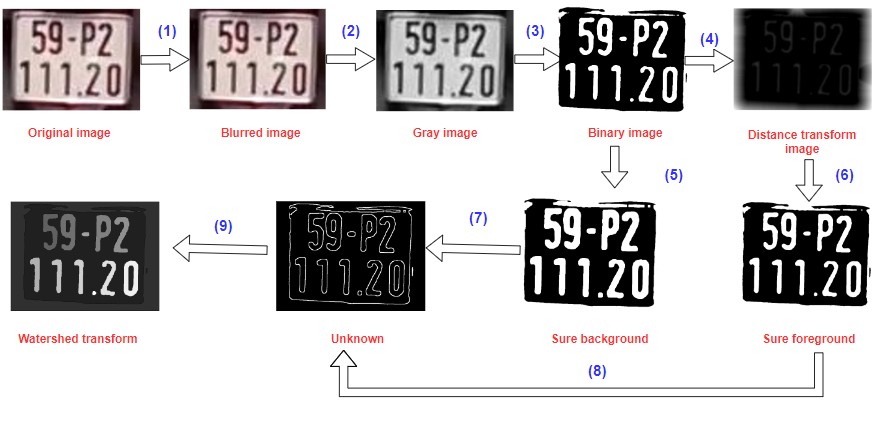
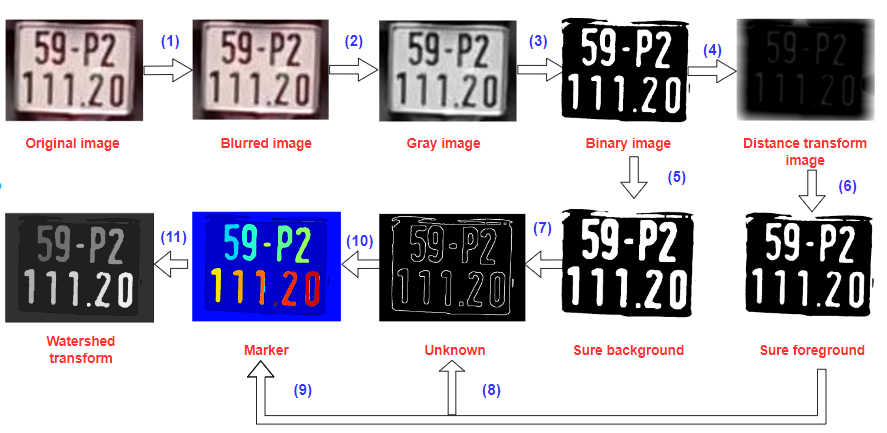
update pipeline

diff --git a/pages/WaterShed.py b/pages/WaterShed.py
@@ -66,7 +66,7 @@ load_image()
 def marker(idx_image, kernels, ratio_thresh):
    
     img_bgr = list_images[idx_image]
-    # img_blur = cv.medianBlur(src = img_bgr, ksize = 3)
+    img_blur = cv.medianBlur(src = img_bgr, ksize = 3)
     img_gray = cv.cvtColor(img_bgr, cv.COLOR_BGR2GRAY)
     
     ret, img_thresh = cv.threshold(img_gray, 0, 255, cv.THRESH_BINARY_INV + cv.THRESH_OTSU)
@@ -502,14 +502,17 @@ def calc():
     
 def Text_PineLine():
     st.markdown("##### **Trong đó:**")
-    st.markdown("- **(1)**: Chuyển từ ảnh **BGR** sang ảnh **Blurred**")
+    st.markdown("- **(1)**: Làm mờ ảnh với thuật toán **Median Blur**")
     st.markdown("- **(2)**: Chuyển từ ảnh **Blurred** sang ảnh **Gray**")
     st.markdown("- **(3)**: Sử dụng thuật toán **Inverse Binary Thresholding** và **Otsu's Binarization** để chuyển thành ảnh **Binary**")
     st.markdown("- **(4)**: Dựa vào ảnh **Binary** để xác định **Distance transform**")
     st.markdown("- **(5)**: Dựa vào ảnh **Binary** để xác định **Sure background**")
-    st.markdown("- **(6)**: Dựa vào **Distance transform** để xác định **Sure foreground**")
+    st.markdown("- **(6)**: Dựa vào **Distance transform** để xác định **Sure foreground** " 
+               + "(**Sure foreground** được xác định bằng cách giữ lại những vùng có giá trị lớn hơn ngưỡng **(Threshsold)** trong ảnh sau khi áp dụng **Distance transform**)")
     st.markdown("- **(7), (8)**: Dựa vào **Sure foreground** và **Sure background** để xác định vùng **Unknown**")
-    st.markdown("- **(9)**: Kết quả sau khi áp dụng thuật toán **Watershed segmentation**")
+    st.markdown("- **(9), (10)**: Dựa vào **Sure foreground** và **Unknown** để tạo ra **Marker**")
+    
+    st.markdown("- **(11)**: Xác định đối tượng phân đoạn dựa vào thuật toán **Watershed Transform**")
     
 def Example_threshold():
     st.markdown("#### * Ví dụ minh họa kết quả chọn Threshold")
@@ -524,7 +527,7 @@ def run():
     img_training(2, 3)
     
     st.markdown("### 2. Quá trình phân đoạn kí tự bằng thuật toán Watershed Segmentation")
-    image_pipe_line = cv.imread('./images/pipeline_watershed.png')
+    image_pipe_line = cv.imread('./images/pipeline_watershed.PNG')
     st.image(image_pipe_line, channels='BGR')
     Text_PineLine()
     st.markdown("### 3. Xác định các tham số tối ưu")
